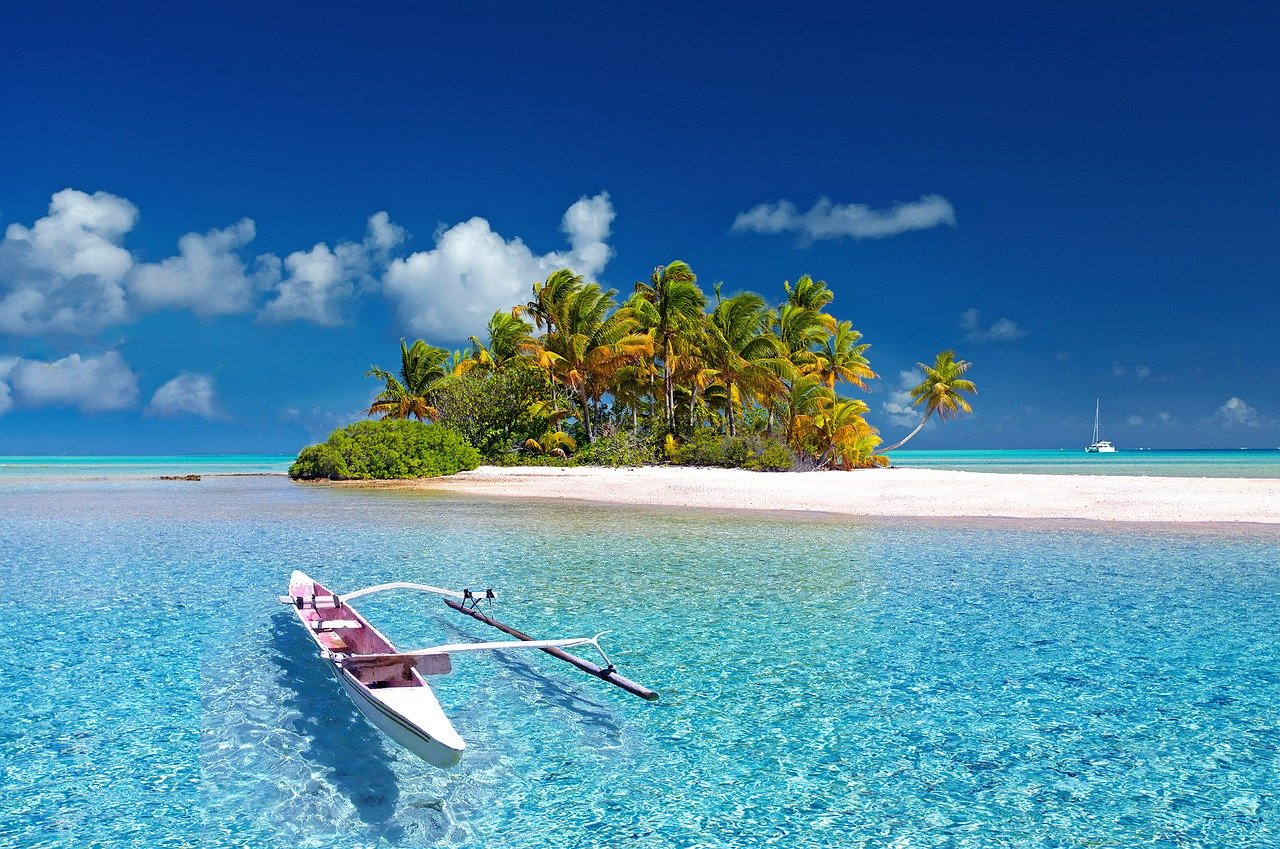
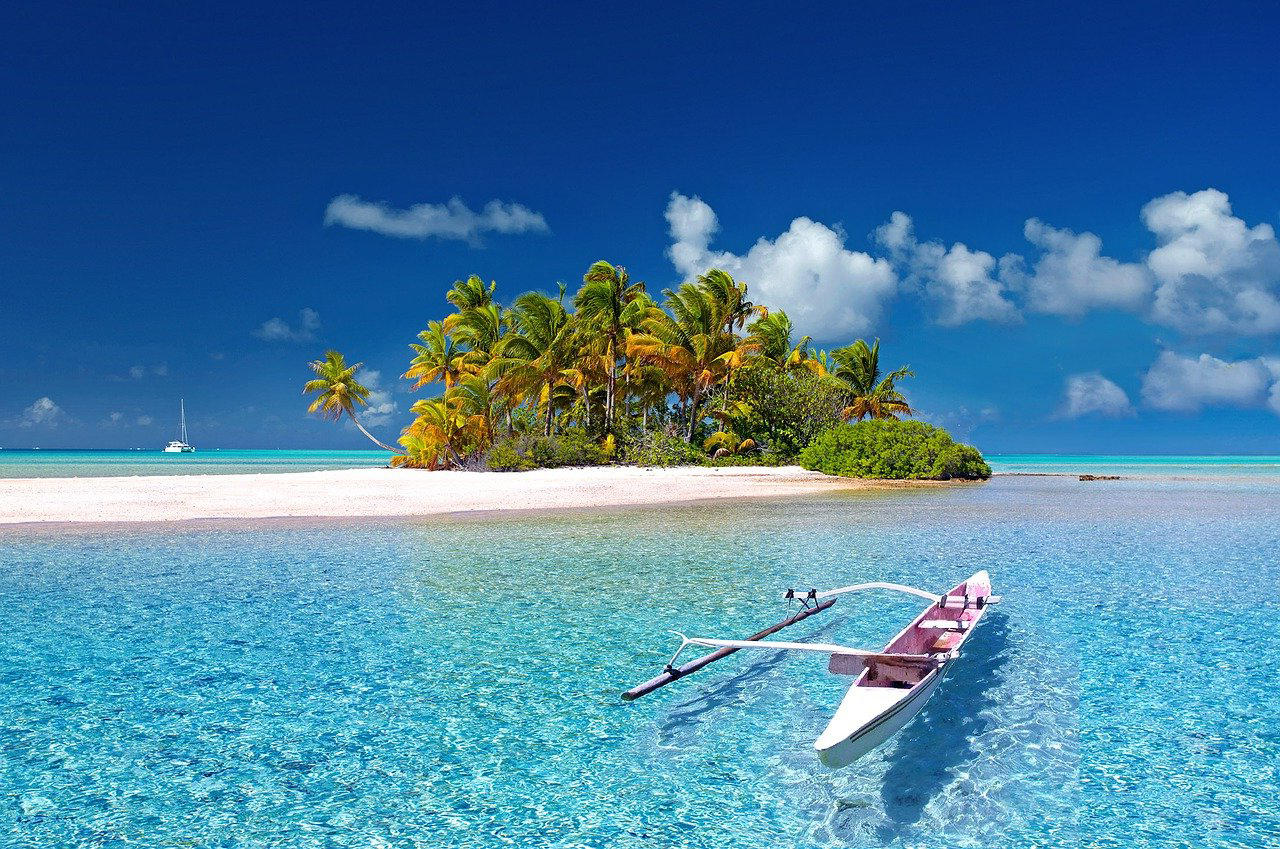
almost done

diff --git a/assets/js/script.js b/assets/js/script.js
@@ -1,18 +1,16 @@
 document.addEventListener('DOMContentLoaded', init);
+let cart = [];
 
 function init() {
-
     const fileEl = document.querySelector('.uploader__input');
     fileEl.addEventListener('change' , readFile);
 
-    const nextExcursion = document.querySelector('.excursions__nav--next');
-    nextExcursion.addEventListener('click' , chooseExcursion)
+    const excursions = document.querySelector('.panel__excursions');
+    excursions.addEventListener('click' , selectExcursion);
 
-    const prevExcursion =  document.querySelector('.excursions__nav--prev');
+    excursions.addEventListener('submit' , summaryDetails);
 }
 
-
-// GET CSV DATA
 
 
 function readFile(e) {
@@ -27,9 +25,10 @@ function readFile(e) {
             const rowsInContent = content.split(/[\r\n]+/gm);
 
             rowsInContent.forEach( function(element) {
-                const element1 = element.substr(1, element.length-2).split(/["+"]\W+/);
-                setExcursionDetails(element1);
+                const excursion = element.substr(1, element.length-2).split(/["+"]\W+/);
+                setExcursionDetails(excursion);
             } )
+            showCurrentExcursion();
         };
         reader.readAsText(file, 'UTF-8');
     }
@@ -38,13 +37,12 @@ function readFile(e) {
     }
 }
 
-
 function setExcursionDetails(item) {
 
     const excursionDetailsPrototype = document.querySelector('.excursions__item');
 
     const excursionDetails = excursionDetailsPrototype.cloneNode(true);
-    excursionDetails.classList.remove('excursions__item--prototype');
+    excursionDetails.classList.remove('excursions__item--prototype' , 'excursions__item--current');
     excursionDetails.dataset.id = item[0];
 
     const excursionTitle = excursionDetails.querySelector('.excursions__title--content');
@@ -62,13 +60,141 @@ function setExcursionDetails(item) {
     excursionChildrenPrice.innerText = item[4];
 
     excursionDetailsPrototype.parentElement.appendChild(excursionDetails);
-    excursionDetailsPrototype.style.display = "none" ;
+}
+
+function showCurrentExcursion() {
+
+    const mainPanel = document.querySelector('.panel');
+    mainPanel.style.justifyContent = "space-between";
+
+    const excursionBoard = document.querySelector('.panel__excursions');
+    excursionBoard.style.display = "flex"
+
+    const currentExcursion = document.querySelector('.excursions__item--prototype').nextElementSibling;
+    currentExcursion.classList.add('excursions__item--current');
+}
+
+function selectExcursion(e) {
+    if(e.target.classList.contains('fa-arrow-right')) {
+        selectNextExcursion();
+    }
+
+    if(e.target.classList.contains('fa-arrow-left')) {
+        selectPreviousExcursion();
+    }
+}
+
+function selectNextExcursion() {
+
+    const currentExcursion = document.querySelector('.excursions__item--current');
+
+    const nextExcursion = currentExcursion.nextElementSibling;
+
+    if(nextExcursion !== null) {
+        currentExcursion.classList.remove('excursions__item--current');
+        nextExcursion.classList.add('excursions__item--current');
+    }
+
+    if(nextExcursion === null) {
+        const firstExcursions = document.querySelector('.excursions__item--prototype').nextElementSibling;
+        currentExcursion.classList.remove('excursions__item--current');
+        firstExcursions.classList.add('excursions__item--current');
+    }
+}
+
+function selectPreviousExcursion() {
+
+    const currentExcursion = document.querySelector('.excursions__item--current');
+
+    const previousExcursion = currentExcursion.previousElementSibling;
+
+    if(previousExcursion !== null) {
+        currentExcursion.classList.remove('excursions__item--current');
+        previousExcursion.classList.add('excursions__item--current');
+    }
+
+    if(previousExcursion === null) {
+        const lastExcursions = document.querySelector('.panel__excursions').lastElementChild;
+        currentExcursion.classList.remove('excursions__item--current');
+        lastExcursions.classList.add('excursions__item--current');
+    }
+}
+
+function summaryDetails(e) {
+    e.preventDefault();
+
+    getCurrentExcursionDetails();
+    setSummaryDetails(cart)
+    setOrderTotalPrice(cart);
+}
+
+function getCurrentExcursionDetails() {
+
+    const currentExcursion = document.querySelector('.excursions__item--current');
+
+    currentExcursionName = currentExcursion.querySelector('.excursions__title--content').innerText;
+
+    currentExcursionPrices = currentExcursion.querySelectorAll('.excursions__price');
+    currentExcursionAdultPrice = currentExcursionPrices[0].innerText;
+    currentExcursionChildrenPrice = currentExcursionPrices[1].innerText;
+
+    currentExcursionAdultNumber = currentExcursion.querySelector('[name=adults]').value;
+    currentExcursionChildrenNumber = currentExcursion.querySelector('[name=children]').value;
+
+    const currentExcursionDetails =
+    {
+        title: currentExcursionName,
+        adultPrice: currentExcursionAdultPrice,
+        adultNumber: currentExcursionAdultNumber,
+        childPrice: currentExcursionChildrenPrice,
+        childNumber: currentExcursionChildrenNumber,
+    }
+
+    cart.push(currentExcursionDetails);
+
+}
+
+function setSummaryDetails(item) {
+    const summaryDetailsPrototype = document.querySelector('.summary__item--prototype');
+    const summaryDetails = summaryDetailsPrototype.cloneNode(true);
+    summaryDetails.classList.remove('summary__item--prototype');
+    summaryDetails.classList.add('summary__item--current')
+
+    const summaryName = document.querySelector('.summary__name');
+    summaryName.innerText = item[item.length - 1].title
+
+    const summaryAdultsPrices = document.querySelector('.summary__prices--adults');
+    summaryAdultsPrices.innerText = `Dorosły: ${item[item.length - 1].adultNumber} x ${item[item.length - 1].adultPrice} PLN`
+
+    const summaryChildrenPrices = document.querySelector('.summary__prices--children');
+    summaryChildrenPrices.innerText = `Dziecko: ${item[item.length - 1].childNumber} x ${item[item.length - 1].childPrice} PLN`
+
+
+    const summaryTotalPrice = document.querySelector('.summary__total-price');
+
+    const CalculatedTotalPrice =
+
+     item[item.length - 1].adultNumber * item[item.length - 1].adultPrice + item[item.length - 1].childNumber * item[item.length - 1].childPrice;
+
+    summaryTotalPrice.innerText = `${CalculatedTotalPrice} PLN`;
+    console.log(summaryTotalPrice);
+    console.log(CalculatedTotalPrice);
+
+    console.log(summaryDetails)
+    summaryDetailsPrototype.parentElement.appendChild(summaryDetails);
 }
 
 
-function chooseExcursion() {
 
-    const Excursions = document.querySelector('.panel__excursions');
-    const Excursion = document.querySelectorAll('.excursions__item');
-    console.log(Excursion)
+
+
+function setOrderTotalPrice(item) {
+
+    let orderTotalPrice = document.querySelector('.order__total-price-value');
+    let price = "";
+
+   for(let i=0; i<item.length; i++) {
+       price = parseInt(price + (item[i].adultPrice * item[i].adultNumber + item[i].childPrice * item[i].childNumber));
+    }
+    orderTotalPrice.innerText = price;
 }

diff --git a/assets/css/style.css b/assets/css/style.css
@@ -15,8 +15,8 @@
     align-items: center;
     flex-wrap: nowrap;
     max-width: 1920px;
-    height: 100vh;
-    background-image: url(../img/island1.jpg);
+    min-height: 100vh;
+    background-image: url(../img/island.jpg);
     background-repeat: no-repeat;
     background-position: bottom left;
     background-size: cover;
@@ -24,35 +24,33 @@
 
 .panel {
     display: flex;
-    justify-content: space-between;
-    /* align-items: center; */
+    justify-content: flex-end;
     width: 100%;
     max-width: 1200px;
-    height: 80vh;
+    max-height: 100vh;
+    height: 85vh;
 }
 
 .panel__excursions {
-    display: flex;
-    flex-wrap: wrap;
+    display: none;
     width: 30%;
     border: 2px solid #0956A1;
-    border-radius: 15px;
+    border-radius: 1.5rem;
     list-style: none;
     background-color: rgba(255, 255, 255, 0.3);
 }
 
 .excursions__item {
-    display: flex;
+    display: none;
     flex-direction: column;
     justify-content: space-between;
-    margin: 10px;
-    padding: 20px;
+    margin: 1rem;
+    padding: 2rem;
 }
 
 .excursions__item--current {
-    display: block;
+    display: flex
 }
-
 
 .excursions__title {
     position: relative;
@@ -78,7 +76,7 @@
 }
 
 .excursions__description {
-    margin-top: 4rem;
+    margin: 4rem 0;
     font-size: 1.5rem;
     text-align: center;
 }
@@ -168,13 +166,56 @@
 
 
 .summary {
-    list-style: none;
+    max-height: 30%;
+    padding: 0.5rem;
     font-size: 2rem;
     text-align: center;
+    list-style: none;
+    overflow-y: scroll;
+}
+
+.summary__item--prototype {
+    display: none;
+}
+
+.summary__item--current {
+    display: list-item;
+}
+
+.summary__item {
+    margin: 2rem;
+    padding: 1rem 1.5rem;
+    border: 1px solid #0956A1;
+}
+
+.summary__title {
+    display: flex;
+    flex-wrap: nowrap;
+}
+
+.summary__name {
+    padding-right: 0.5rem;
+}
+
+.summary__name,
+.summary__total-price {
+    font-size: 2rem;
+}
+
+.summary__btn-remove {
+    font-size: 1.5rem;
+    text-decoration: none;
+    color: black;
+    padding: 0 0 0 0.5rem;
+}
+
+.summary__prices {
+    display: flex;
+    flex-direction: column;
 }
 
 .summary__prices--adults,
 .summary__prices--children {
-    margin-top: 2rem;
-    display: inline-block;
+    font-size: 1.5rem;
+    display: block;
 }

diff --git a/index.html b/index.html
@@ -19,7 +19,7 @@
     <section class="panel">
 
       <ul class="panel__excursions excursions">
-        <li class="excursions__item excursions__item--prototype excursions__item--current">
+        <li class="excursions__item excursions__item--prototype">
 
           <header class="excursions__header">
             <h2 class="excursions__title">
